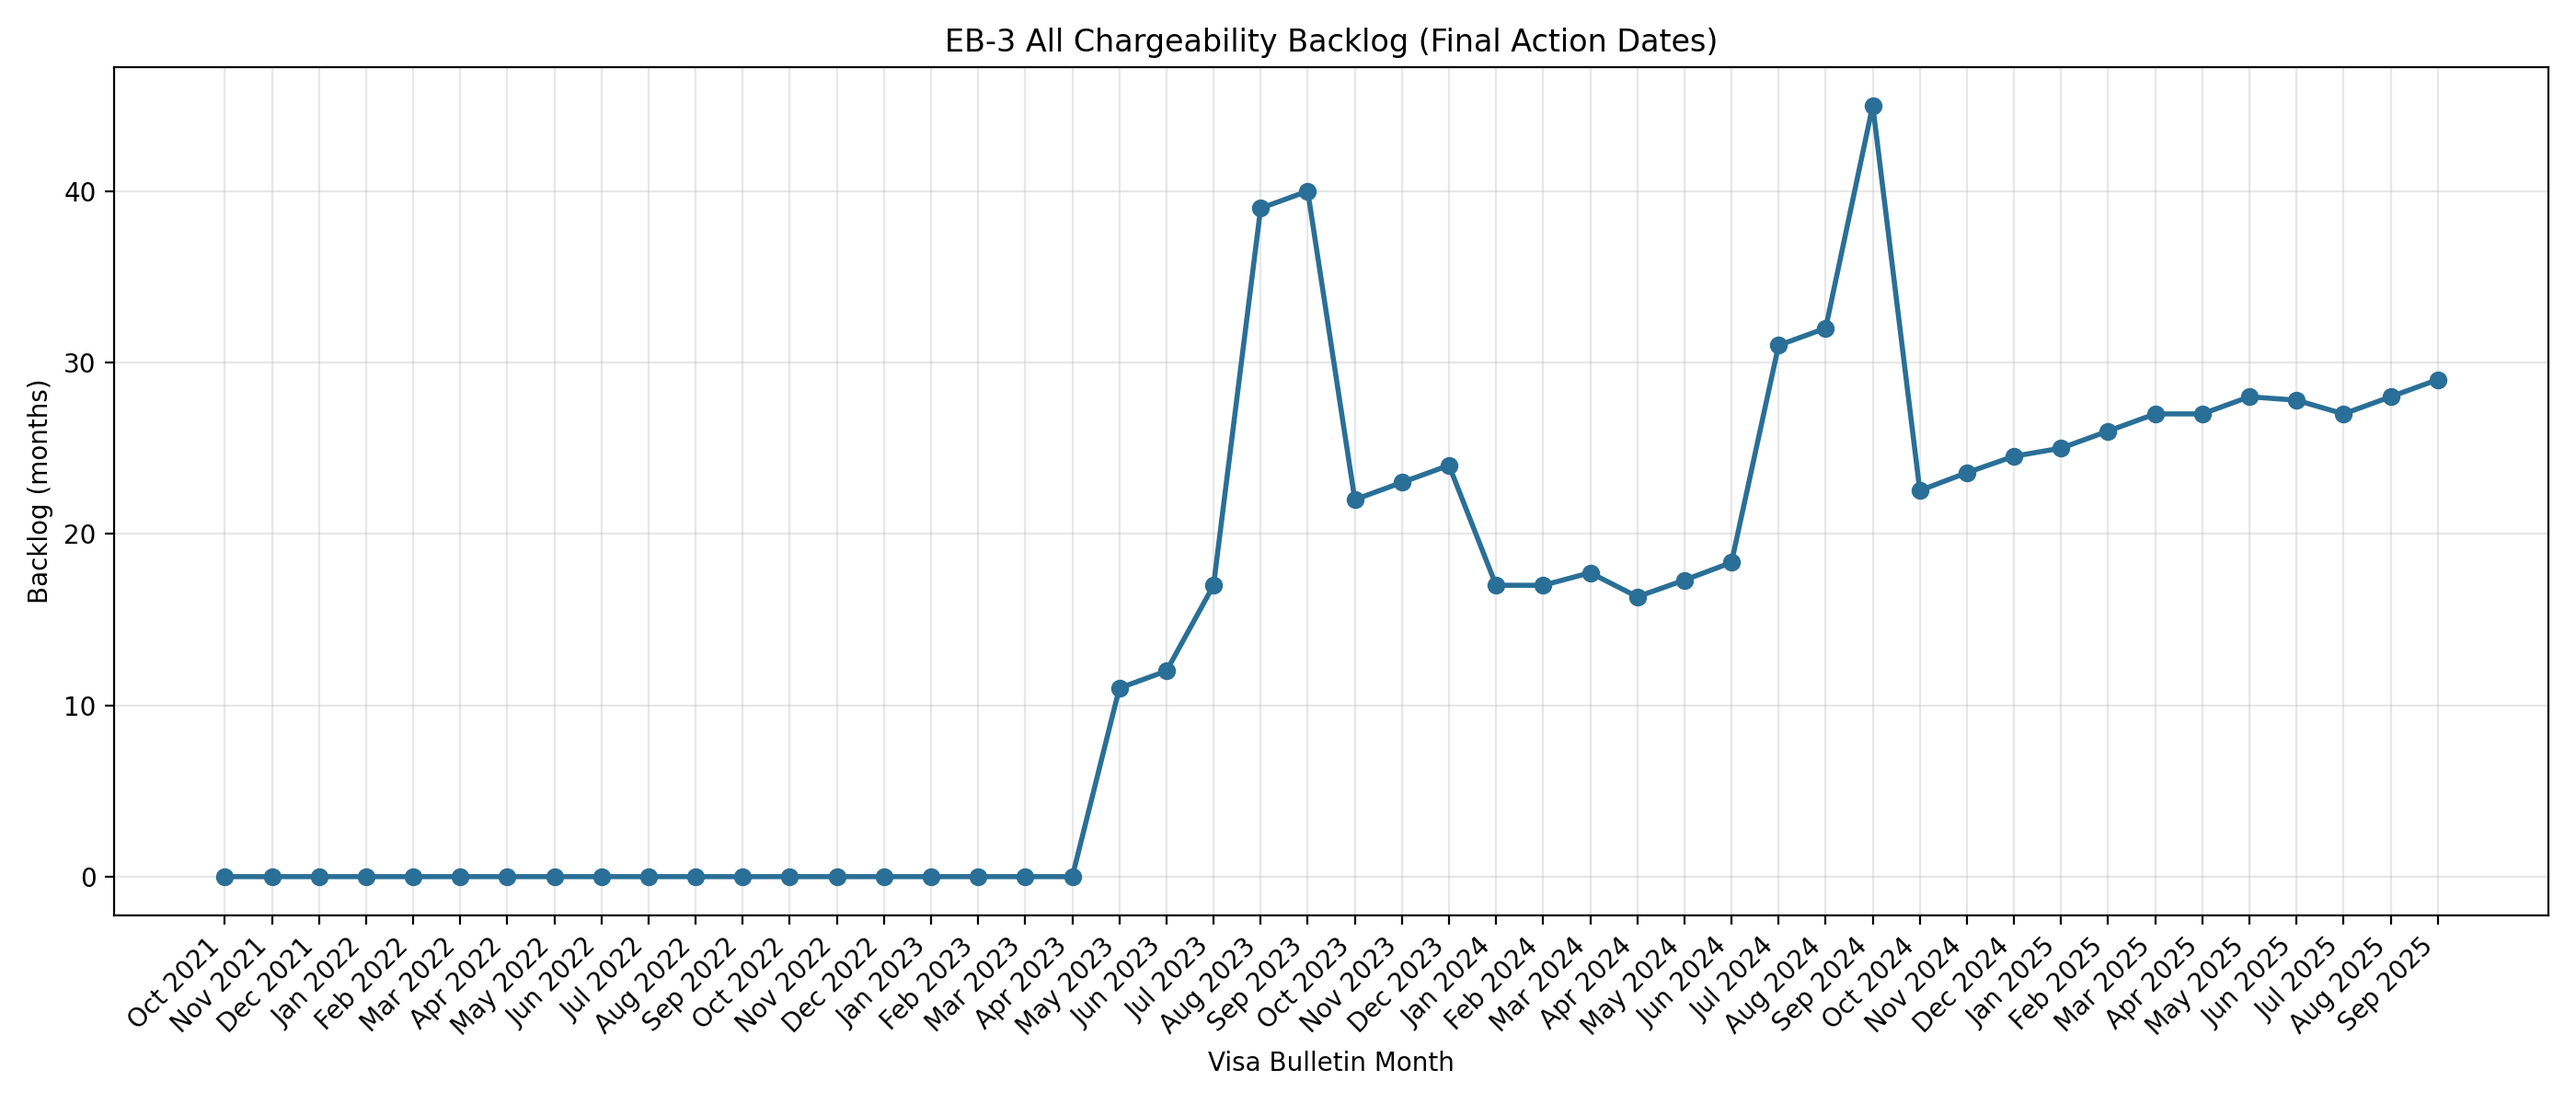
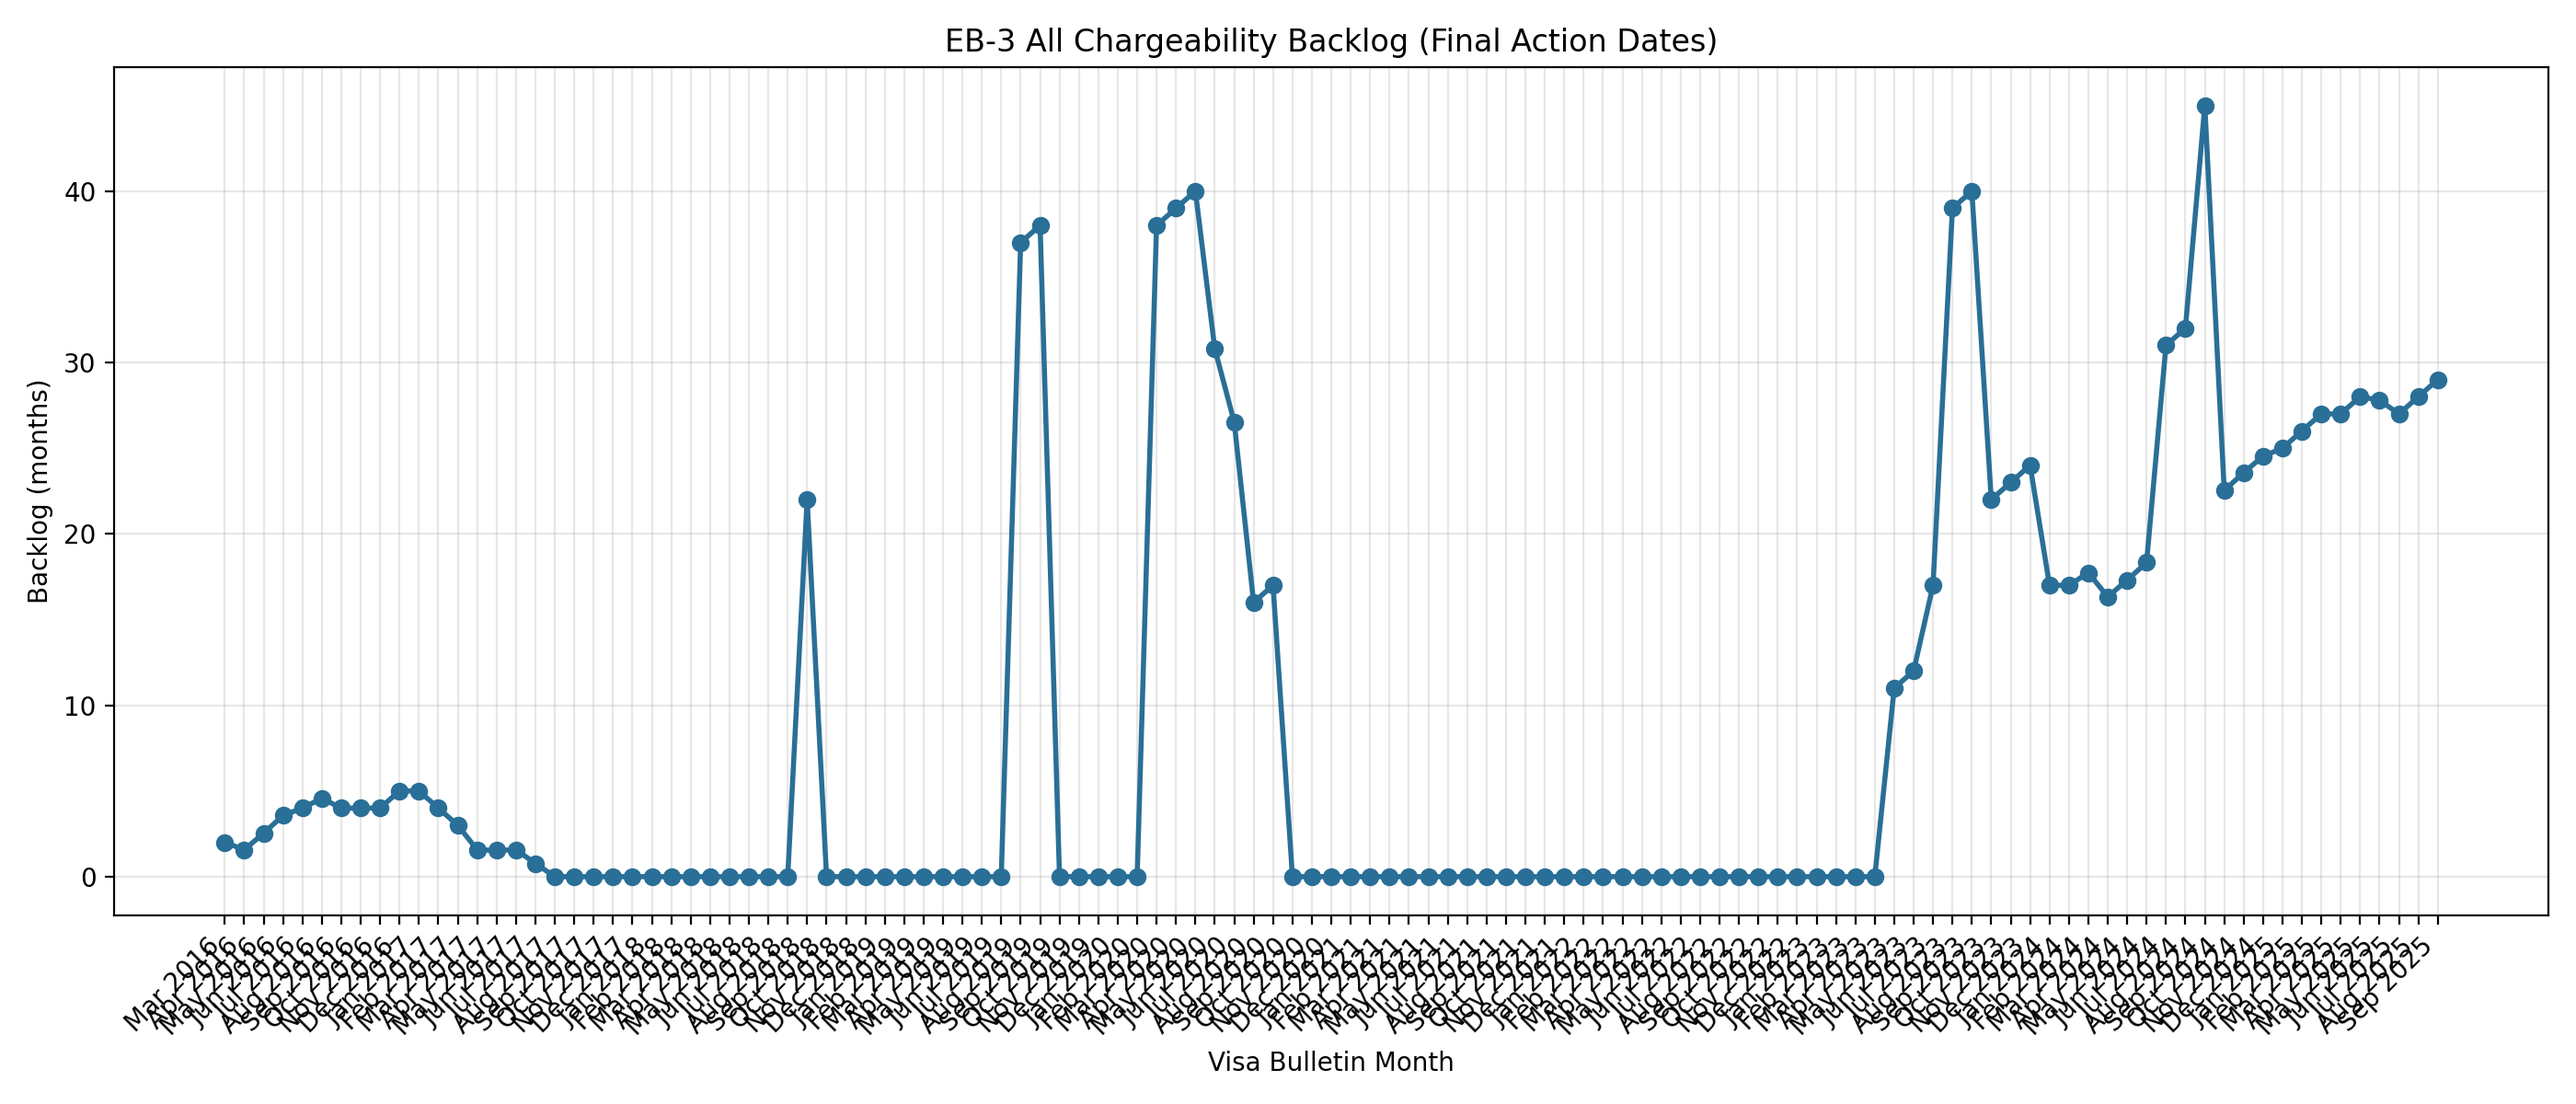
parallelize and get more data points

diff --git a/src/scrape_backlog.py b/src/scrape_backlog.py
@@ -6,7 +6,7 @@ import csv
 import logging
 import math
 import re
-import time
+from concurrent.futures import FIRST_COMPLETED, ThreadPoolExecutor, wait
 from dataclasses import dataclass
 from datetime import datetime
 from pathlib import Path
@@ -29,11 +29,11 @@ DOS_BULLETIN_URL = (
     "https://travel.state.gov/content/travel/en/legal/visa-law0/visa-bulletin/{folder_year}/"
     "visa-bulletin-for-{month}-{slug_year}.html"
 )
-MONTH_COUNT = 48
 START_PAGE_ID = 116
 MAX_PAGES_TO_CHECK = 400  # safeguard so we don't loop forever if structure changes
 REQUEST_TIMEOUT = 30
-REQUEST_DELAY_SECONDS = 0.3
+MAX_WORKERS = 6
+CONSECUTIVE_NOT_FOUND_LIMIT = 5
 TARGET_CAPTION = (
     "Final Action Dates for Employment-Based Adjustment of Status Applications"
 )
@@ -253,46 +253,71 @@ def extract_record(page_id: int) -> BulletinRecord:
 
 
 def collect_records() -> list[BulletinRecord]:
-    records: list[BulletinRecord] = []
+    records_by_month: dict[datetime, BulletinRecord] = {}
     page_id = START_PAGE_ID
     pages_checked = 0
+    consecutive_missing = 0
+    active_futures: dict = {}
+    stopping = False
 
-    while (
-        len(records) < MONTH_COUNT
-        and page_id > 0
-        and pages_checked < MAX_PAGES_TO_CHECK
-    ):
-        pages_checked += 1
-        try:
-            record = extract_record(page_id)
-        except FileNotFoundError:
-            LOGGER.info("Reached a missing page at id %s; stopping traversal.", page_id)
-            break
-        except ValueError as exc:
-            LOGGER.warning("Skipping page %s: %s", page_id, exc)
-        except Exception as exc:  # pragma: no cover - diagnostic
-            LOGGER.error("Failed to process page %s: %s", page_id, exc)
-        else:
-            records.append(record)
-            LOGGER.info(
-                "Collected %s/%s from page %s (%s)",
-                len(records),
-                MONTH_COUNT,
-                page_id,
-                record.month_label,
-            )
-        finally:
-            page_id -= 1
-            time.sleep(REQUEST_DELAY_SECONDS)
+    with ThreadPoolExecutor(max_workers=MAX_WORKERS) as executor:
+        while (page_id > 0 or active_futures) and pages_checked < MAX_PAGES_TO_CHECK:
+            while (
+                not stopping
+                and page_id > 0
+                and pages_checked < MAX_PAGES_TO_CHECK
+                and len(active_futures) < MAX_WORKERS
+            ):
+                future = executor.submit(extract_record, page_id)
+                active_futures[future] = page_id
+                page_id -= 1
+                pages_checked += 1
 
-    if len(records) < MONTH_COUNT:
+            if not active_futures:
+                break
+
+            done, _ = wait(active_futures.keys(), return_when=FIRST_COMPLETED)
+            for future in done:
+                pid = active_futures.pop(future)
+                try:
+                    record = future.result()
+                except FileNotFoundError:
+                    consecutive_missing += 1
+                    LOGGER.info(
+                        "USCIS page %s missing (%s consecutive).",
+                        pid,
+                        consecutive_missing,
+                    )
+                    if consecutive_missing >= CONSECUTIVE_NOT_FOUND_LIMIT:
+                        LOGGER.info(
+                            "Stopping after %s consecutive missing pages.",
+                            consecutive_missing,
+                        )
+                        stopping = True
+                        page_id = 0
+                except ValueError as exc:
+                    LOGGER.warning("Skipping page %s: %s", pid, exc)
+                    consecutive_missing = 0
+                except Exception as exc:  # pragma: no cover - diagnostic
+                    LOGGER.error("Failed to process page %s: %s", pid, exc)
+                    consecutive_missing = 0
+                else:
+                    consecutive_missing = 0
+                    if record.bulletin_month not in records_by_month:
+                        records_by_month[record.bulletin_month] = record
+                        LOGGER.info(
+                            "Collected %s records so far (page %s → %s)",
+                            len(records_by_month),
+                            pid,
+                            record.month_label,
+                        )
+
+    if not records_by_month:
         LOGGER.warning(
-            "Only collected %s records out of requested %s; consider increasing MAX_PAGES_TO_CHECK.",
-            len(records),
-            MONTH_COUNT,
+            "No records collected after checking %s pages.", pages_checked
         )
 
-    return records
+    return sorted(records_by_month.values(), key=lambda item: item.bulletin_month)
 
 
 def write_csv(records: list[BulletinRecord], destination: Path) -> None:

diff --git a/README.md b/README.md
@@ -1,6 +1,6 @@
 # EB-3 Backlog Chart
 
-This project scrapes the most recent 48 USCIS "When to File" bulletins to extract the Employment-Based Third Preference (EB-3) **Final Action Date** for "All Chargeability Areas Except Those Listed" and charts the resulting backlog in months.
+This project scrapes every available USCIS "When to File" bulletin archive page to extract the Employment-Based Third Preference (EB-3) **Final Action Date** for "All Chargeability Areas Except Those Listed" and charts the resulting backlog in months.
 
 ## Prerequisites
 
@@ -25,7 +25,7 @@ Run the scraper from the repository root:
 python -m src.scrape_backlog
 ```
 
-The script will download the latest 48 bulletins (for example, September 2025 back through October 2021), extract the relevant EB-3 final action cut-off dates, calculate the backlog in months, and store the results in the `artifacts/` directory:
+The script will walk the archive from the newest bulletin backward, gathering every month that is still published. For each bulletin it extracts the relevant EB-3 final action cut-off date, calculates the backlog in months, and stores the results in the `artifacts/` directory:
 
 -   `artifacts/eb3_backlog_months.csv` — tabular data containing the bulletin month, raw final action date string, computed backlog, and source URL.
 -   `artifacts/eb3_backlog_months.png` — a line chart of backlog months vs. bulletin month.
@@ -34,4 +34,4 @@ The script will download the latest 48 bulletins (for example, September 2025 ba
 
 -   If the final action date is listed as `C` (current), the backlog is recorded as `0` months.
 -   If the final action date is `U` (unauthorized/unavailable), the backlog value is left blank in the CSV and plotted as `NaN`, so it is omitted from the chart line.
--   The scraper respects the USCIS site by pausing between requests; collecting 48 months takes roughly 15–20 seconds.
+-   The scraper fetches several pages in parallel (default: 6 workers) while still stopping as soon as the archive returns a run of missing pages. You can reduce the concurrency by editing `MAX_WORKERS` in `src/scrape_backlog.py` if you prefer a slower crawl.
